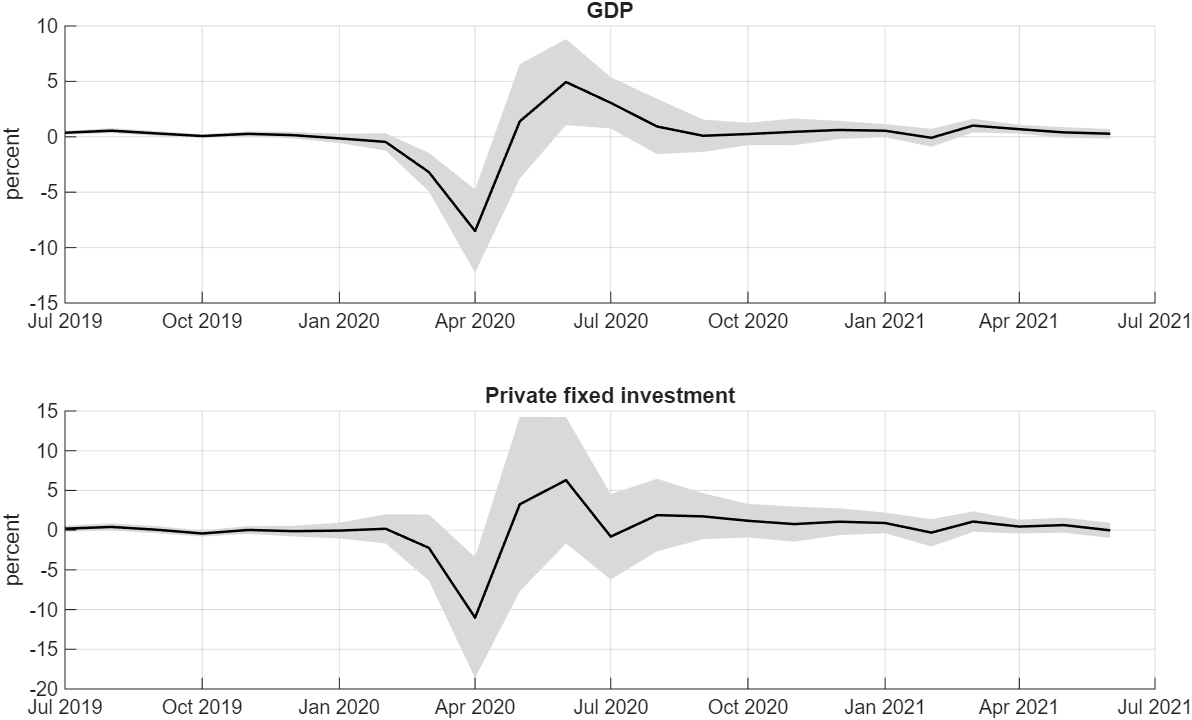
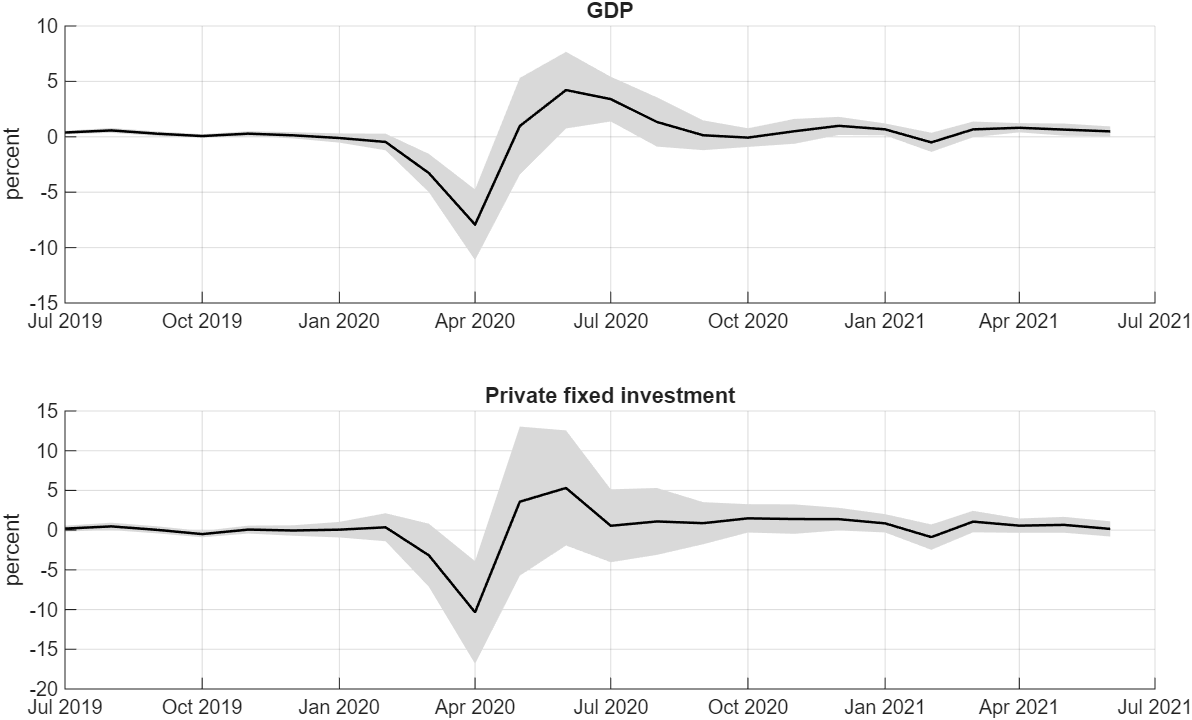
Rebuild the mixed-frequency tutorial with 12 lags
20,000 draws after a burn-in of 2,000. The 90% bands are given to one decimal, since their
Monte Carlo error is about 0.1.

diff --git a/tutorials/mixed_frequency/build.m b/tutorials/mixed_frequency/build.m
@@ -57,7 +57,7 @@ for j = 1:2
     e = g(5:end) - Zq*(Zq\g(5:end));
     sig2(iq(j)) = 9/19*mean(e.^2);
 end
-p = 4;
+p = 12;
 fprintf(['\ndata: %s to %s, %d months, the first %d as initial conditions; %d quarterly ' ...
     'values of GDP and of investment, %s to %s\n'], mlab(d(1)), mlab(d(end)), T, p, ...
     numel(zq)/2, qlab(d(find(~isnan(X(:,6)), 1))), qlab(d(find(~isnan(X(:,6)), 1, 'last'))));
@@ -68,7 +68,7 @@ fprintf('restrictions across gaps: %d, CPI over %s-%s\n', numel(zg), ...
 %% ------------------------------------------------------------------
 %  Part 2. Estimation
 %  ------------------------------------------------------------------
-nsim = 10000;  burnin = 10000;  seed = 1;  hblock = 36;
+nsim = 20000;  burnin = 2000;  seed = 1;  hblock = 36;
 t1 = tic;
 res = bvar.models.mfvar_csv(Y, p, 'M', M, 'z', z, 'sig2', sig2, 'nsim', nsim, ...
     'burnin', burnin, 'seed', seed, 'hblock', hblock, 'draws', true);
@@ -100,9 +100,9 @@ fprintf('share of proposals accepted when h is one block of %d months: %.3f\n', 
 %  ------------------------------------------------------------------
 gm = res.Y_mean;  qlo = res.Y_q(:,:,1);  qhi = res.Y_q(:,:,5);
 fprintf('\nmonthly growth, percent: posterior mean (90%% band)\n');
-fprintf('%-8s %24s %24s\n', 'month', 'GDP', 'investment');
+fprintf('%-8s %22s %22s\n', 'month', 'GDP', 'investment');
 for t = find(d >= datetime(2020,1,1) & d <= datetime(2020,12,1))'
-    fprintf('%-8s %7.2f (%6.2f, %6.2f) %7.2f (%6.2f, %6.2f)\n', mlab(d(t)), ...
+    fprintf('%-8s %7.2f (%5.1f, %5.1f) %7.2f (%5.1f, %5.1f)\n', mlab(d(t)), ...
         gm(t,6), qlo(t,6), qhi(t,6), gm(t,7), qlo(t,7), qhi(t,7));
 end
 fprintf('the posterior mean path satisfies the aggregation: max |M*y - z| %.1e\n', ...
@@ -112,7 +112,7 @@ fprintf('2020Q2, 100 x log change: GDP %.2f, investment %.2f\n', X(tq,6), X(tq,7
 
 % the ragged edge: July 2026, with no quarterly value yet
 t = T;
-fprintf('\n%s, before the third-quarter release: GDP %.2f (%.2f, %.2f), investment %.2f (%.2f, %.2f)\n', ...
+fprintf('\n%s, before the third-quarter release: GDP %.2f (%.1f, %.1f), investment %.2f (%.1f, %.1f)\n', ...
     mlab(d(t)), gm(t,6), qlo(t,6), qhi(t,6), gm(t,7), qlo(t,7), qhi(t,7));
 % the values that were never published: CPI inflation in the two months around the missing
 % October 2025 index, whose sum is known, and the October 2025 unemployment rate
@@ -122,7 +122,7 @@ for t = tc'
 end
 fprintf('  their sum, from the published index: %.3f\n', zg);
 t = find(isnan(Y(:,3)));
-fprintf('unemployment rate %s: %.2f (%.2f, %.2f); published %s %.1f and %s %.1f\n', ...
+fprintf('unemployment rate %s: %.2f (%.1f, %.1f); published %s %.1f and %s %.1f\n', ...
     mlab(d(t)), gm(t,3), qlo(t,3), qhi(t,3), mlab(d(t-1)), Y(t-1,3), mlab(d(t+1)), Y(t+1,3));
 
 % the Brave-Butters-Kelley series is 12 times the monthly growth rate; divided by 12, its

diff --git a/tutorials/mixed_frequency/your_data.m b/tutorials/mixed_frequency/your_data.m
@@ -6,8 +6,8 @@
 % monthly estimates of each quarterly series over the last twelve months, plots the
 % first quarterly series with its 68 percent credible band, and writes the monthly
 % estimates to a csv and a mat file. The defaults use the tutorial's data from 1990 with
-% short chains and take about 15 seconds; the tutorial uses 10,000 draws after a burn-in
-% period of 10,000.
+% short chains and take about a minute; the tutorial uses 20,000 draws after a burn-in
+% period of 2,000.
 %
 % The file is read with readtable and has one row per month, with the dates in datecol
 % in the format datefmt, such as 2026-07 for yyyy-MM. A quarterly series holds its level
@@ -34,7 +34,7 @@ transform = ["dlog" "dlog" "level" "dlog" "level" "dlog" "dlog"];
 scale     = [1 1 1 1 .1 1 1];                  % multiplies a series used in levels
 first     = "1990-01";                         % first month of the sample; "" for all
 last      = "";                                % last month; "" for all
-p         = 4;                                 % lags
+p         = 12;                                % lags
 nsim      = 1000;                              % draws kept
 burnin    = 500;                               % draws discarded first
 seed      = 1;

diff --git a/tutorials/mixed_frequency/README.md b/tutorials/mixed_frequency/README.md
@@ -19,9 +19,9 @@ and Zhu (2023) draw all of them in one block. We use the model and priors of the
 application, a VAR with common stochastic volatility, on five monthly FRED-MD series and the two
 quarterly series from 1959 to 2026.
 
-Monthly GDP falls by 8.50 percent in April 2020, with a 90% credible band from −15.07 to −2.33
-percent, and grows by 4.94 percent in June (Table 1). Over 1960 to 2026 the estimated monthly
-growth rates have a correlation of 0.92 with the Brave-Butters-Kelley series, which comes from a
+Monthly GDP falls by 7.92 percent in April 2020, with a 90% credible band from −13.3 to −2.8
+percent, and grows by 4.22 percent in June (Table 1). Over 1960 to 2026 the estimated monthly
+growth rates have a correlation of 0.93 with the Brave-Butters-Kelley series, which comes from a
 collapsed dynamic factor model (Figure 1). The same draw fills in the values that were never
 published: the unemployment rate for October 2025 is estimated at 4.43 percent.
 
@@ -31,8 +31,8 @@ Two commands, from the root of the repository:
 
 | Command | What it produces | Time |
 |---|---|---|
-| `run tutorials/mixed_frequency/your_data.m` | the same model from 1990 with short chains, the monthly estimates of GDP and investment, and a report | about 15 seconds |
-| `run tutorials/mixed_frequency/build.m` | every number and figure on this page | about 8 minutes |
+| `run tutorials/mixed_frequency/your_data.m` | the same model from 1990 with short chains, the monthly estimates of GDP and investment, and a report | about a minute |
+| `run tutorials/mixed_frequency/build.m` | every number and figure on this page | about 25 minutes |
 
 This workflow needs MATLAB with the Statistics and Machine Learning Toolbox.
 
@@ -101,8 +101,8 @@ quarterly growth rates with variance $`19\sigma^2/9`$.
 
 The volatility path is drawn in blocks of 36 months, each from its conditional distribution given
 the rest of the path, with the accept-reject Metropolis-Hastings step of Chan (2017)
-(`bvar.sv.csv_armh_block`). On this sample, 95.9% of the proposals for a block of 36 months are
-accepted, against 1.1% of the proposals for the whole path of 806 months in one step.
+(`bvar.sv.csv_armh_block`). On this sample, 95.5% of the proposals for a block of 36 months are
+accepted, against 0.7% of the proposals for the whole path of 798 months in one step.
 
 ## Data
 
@@ -111,7 +111,7 @@ the CPI and payroll employment in 100 times log changes, the unemployment rate i
 average weekly hours in manufacturing divided by 10. They come from the August 2026 vintage of
 FRED-MD (McCracken and Ng, 2016). Real GDP and real private fixed investment come from the FRED-QD
 vintage of the same month (McCracken and Ng, 2021) and enter as 100 times their quarterly log
-changes. The sample runs from 1959:02 to 2026:07, and the VAR has four lags, so the first four
+changes. The sample runs from 1959:02 to 2026:07, and the VAR has twelve lags, so the first twelve
 months serve as initial conditions.
 
 Three monthly values are also missing. The Bureau of Labor Statistics published no CPI and no
@@ -124,12 +124,12 @@ been published, so no quarterly value restricts that month.
 
 ## Results for Monthly GDP and Investment
 
-The results are based on 10,000 posterior draws after a burn-in period of 10,000 draws. We perform
+The results are based on 20,000 posterior draws after a burn-in period of 2,000 draws. We perform
 two checks to determine the reliability of the estimates. First, the restrictions hold in every
-draw, the largest violation being $`1.2 \times 10^{-13}`$. Second, the inefficiency factors of the
-monthly values of GDP have a median of 5.2 and a maximum of 18.0, those of investment 5.7 and
-24.5, and those of the volatility path 12.9 and 23.9, so the effective sample size of each is at
-least 408 draws.
+draw, the largest violation being $`1.0 \times 10^{-13}`$. Second, the inefficiency factors of the
+monthly values of GDP have a median of 5.4 and a maximum of 22.5, those of investment 6.0 and
+20.4, and those of the volatility path 12.5 and 25.0, so the effective sample size of each is at
+least 800 draws.
 
 *Table 1: Monthly growth of real GDP and real private fixed investment in 2020, 100 times the
 log change: posterior means and 90% credible bands, and the Brave-Butters-Kelley series in the
@@ -137,17 +137,17 @@ same units.*
 
 | Month | GDP | 90% band | Investment | 90% band | Brave-Butters-Kelley |
 |---|---|---|---|---|---|
-| 2020:02 | −0.46 | (−1.82, 0.85) | 0.17 | (−3.02, 3.33) | −1.05 |
-| 2020:03 | −3.19 | (−6.17, −0.24) | −2.23 | (−9.13, 4.99) | −3.53 |
-| 2020:04 | −8.50 | (−15.07, −2.33) | −11.02 | (−24.37, 1.58) | −6.00 |
-| 2020:05 | 1.39 | (−7.18, 10.70) | 3.26 | (−15.28, 23.26) | −0.63 |
-| 2020:06 | 4.94 | (−1.54, 11.75) | 6.29 | (−7.17, 20.27) | 2.77 |
-| 2020:07 | 3.06 | (−1.24, 6.84) | −0.82 | (−10.77, 7.92) | 3.71 |
+| 2020:02 | −0.46 | (−1.8, 0.8) | 0.36 | (−2.7, 3.5) | −1.05 |
+| 2020:03 | −3.27 | (−6.3, −0.3) | −3.17 | (−10.1, 3.6) | −3.53 |
+| 2020:04 | −7.92 | (−13.3, −2.8) | −10.34 | (−21.5, 0.3) | −6.00 |
+| 2020:05 | 0.97 | (−6.2, 8.5) | 3.58 | (−11.7, 19.6) | −0.63 |
+| 2020:06 | 4.22 | (−1.5, 10.1) | 5.31 | (−6.8, 17.7) | 2.77 |
+| 2020:07 | 3.40 | (−0.2, 6.7) | 0.55 | (−7.6, 8.0) | 3.71 |
 
 Table 1 shows that most of the decline in the second quarter of 2020 falls in April. Real GDP
 falls by 8.20 percent in that quarter, and the monthly estimates satisfy the aggregation exactly.
-Investment falls by 11.02 percent in April, with a band from −24.37 to 1.58 percent. The bands are
-widest in May and June: for GDP in May they run from −7.18 to 10.70 percent.
+Investment falls by 10.34 percent in April, with a band from −21.5 to 0.3 percent. The bands are
+widest in May and June: for GDP in May they run from −6.2 to 8.5 percent.
 
 ![GDP and investment in 2020](fig_2020.png)
 
@@ -155,19 +155,19 @@ widest in May and June: for GDP in May they run from −7.18 to 10.70 percent.
 the log change, 2019:07–2021:06: posterior means and 68% credible bands.*
 
 Over the 798 months from 1960:01 to 2026:06, the correlation between the monthly GDP estimates and
-the Brave-Butters-Kelley series is 0.92, and 0.93 without 2020. The root mean squared difference
-is 0.21 percentage points, and 0.13 without 2020. The two differ most in the pandemic months: the
+the Brave-Butters-Kelley series is 0.93, and 0.91 without 2020. The root mean squared difference
+is 0.19 percentage points, and 0.14 without 2020. The two differ most in the pandemic months: the
 Brave-Butters-Kelley series falls by 6.00 percent in April 2020 and grows by 2.77 percent in June,
-against 8.50 and 4.94 percent here.
+against 7.92 and 4.22 percent here.
 
 ## Months Without Data
 
 The same draw fills in the monthly values that were never published. The unemployment rate for
-October 2025 is estimated at 4.43 percent, with a 90% band from 4.29 to 4.57, between the
-published 4.4 in September and 4.5 in November. CPI inflation is estimated at 0.13 percent in both
-October and November 2025, which sum to the published two-month change of 0.25 percent. For July
-2026, the first month of the third quarter, GDP growth is estimated at 0.20 percent, with a band
-from −0.45 to 0.83, and investment growth at 0.44 percent, with a band from −1.04 to 1.92. No
+October 2025 is estimated at 4.43 percent, with a 90% band from 4.3 to 4.6, between the published
+4.4 in September and 4.5 in November. CPI inflation is estimated at 0.136 percent in October and
+0.116 percent in November 2025, which sum to the published two-month change of 0.252 percent. For
+July 2026, the first month of the third quarter, GDP growth is estimated at 0.20 percent, with a
+band from −0.4 to 0.8, and investment growth at 0.49 percent, with a band from −0.9 to 1.9. No
 quarterly value restricts these estimates, which come from the VAR dynamics and the July values of
 the monthly series.
 
@@ -178,18 +178,18 @@ row per month. Its settings block sets the file, the date column and its format,
 their names, which of them are quarterly, how each is transformed, the sample, the lag length and
 the chain length. A quarterly series holds its level in the last month of each quarter and enters
 as 100 times its quarterly log change. A monthly series enters in 100 times log changes or in
-levels, and may have missing values anywhere; when one of its levels is missing inside the
-sample, the growth rates around it keep their known sum. The script prints the monthly estimates
-of each quarterly series over the last twelve months, plots the first of them with its 68%
-credible band, and writes the monthly estimates to a csv and a mat file in `outdir`, which
-defaults to `tempdir`. With its default settings, which use the data of this tutorial from 1990
-and chains of 1,000 draws, it runs in about 15 seconds.
+levels, and may have missing values anywhere; when one of its levels is missing inside the sample,
+the growth rates around it keep their known sum. The script prints the monthly estimates of each
+quarterly series over the last twelve months, plots the first of them with its 68% credible band,
+and writes the monthly estimates to a csv and a mat file in `outdir`, which defaults to `tempdir`.
+With its default settings, which use the data of this tutorial from 1990 and chains of 1,000
+draws, it runs in about a minute.
 
 The model is estimated by the function `bvar.models.mfvar_csv`:
 
 ```matlab
 [M, z, Y] = bvar.util.mm_constraint(X, quarterly);
-res = bvar.models.mfvar_csv(Y, p, 'M', M, 'z', z, 'sig2', sig2, 'nsim', 10000, 'burnin', 10000);
+res = bvar.models.mfvar_csv(Y, p, 'M', M, 'z', z, 'sig2', sig2, 'nsim', 20000, 'burnin', 2000);
 ```
 
 The matrix `X` is $`T \times n`$, one row per month, with each quarterly growth rate in the last
@@ -216,7 +216,7 @@ series as they appear in the FRED-MD and FRED-QD files `2026-rev-08-md.csv` and
 `2026-rev-08-qd.csv`, with each quarterly value in the last month of its quarter, and
 [`bbk_mgdp.csv`](bbk_mgdp.csv), the Brave-Butters-Kelley series as FRED published it on 31 August
 2026. It builds the restrictions, estimates the model, prints every result on this page, and saves
-the figures in the same folder as this page. The build takes 8.0 minutes using MATLAB R2025b on a
+the figures in the same folder as this page. The build takes 24.6 minutes using MATLAB R2025b on a
 computer with an Intel Core Ultra 7 255U processor and 32 GB of RAM.
 
 ## References

diff --git a/README.md b/README.md
@@ -45,7 +45,7 @@ Each comes with a script that runs the same analysis on your own data.
 - [How Do I Handle Missing and Mixed-Frequency Data in My VAR?](tutorials/mixed_frequency/) By
   using data augmentation and drawing all the missing values in one block, as Chan, Poon and Zhu
   (2023) do. In a monthly VAR with quarterly GDP, this puts the fall in monthly GDP in April 2020
-  at 8.5 percent.
+  at 7.9 percent.
 
 The fourteen scripts in [`examples/`](examples/) each run in under a minute and are best read in
 order: the building blocks (ex01–ex02, the precision sampler and stochastic volatility), VAR
